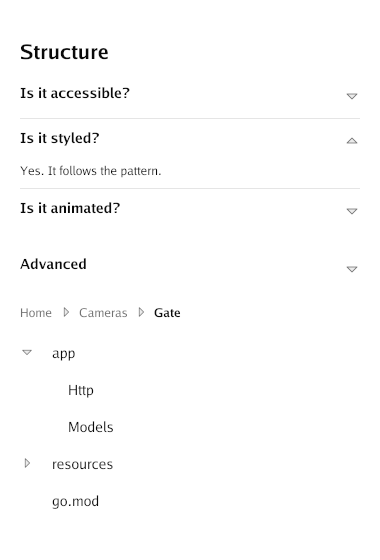
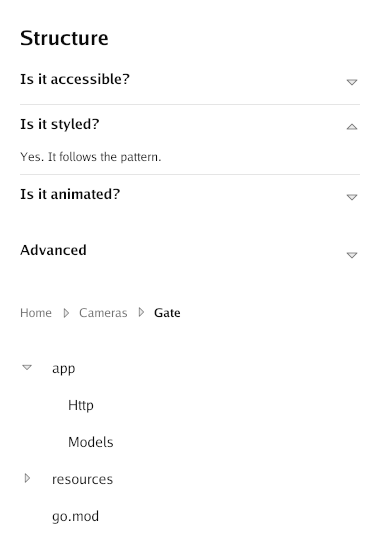
Breadcrumb: break a trail longer than the room into lines, and make each step as high as a finger
The trail was a row with no break: on a phone the third step was cut at the edge
and the fourth -- the page the person is on -- was not drawn anywhere. Kyse's
wraps. The steps are set into lines, each centred in the height of its line.
The words of a step were 17 points tall to press; the area is 44.

diff --git a/widget/navigation.go b/widget/navigation.go
@@ -5,6 +5,7 @@ import (
 
 	"github.com/arandu-io/ayra"
 	"github.com/arandu-io/ayra/engine/layout"
+	"github.com/arandu-io/ayra/engine/op"
 	"github.com/arandu-io/ayra/engine/text"
 	"github.com/arandu-io/ayra/engine/unit"
 	engine "github.com/arandu-io/ayra/engine/widget"
@@ -60,34 +61,84 @@ func (p BreadcrumbProps) layout(c ayra.Context, state *Crumbs) ayra.Dimensions {
 		state.clicks = append(state.clicks, engine.Clickable{})
 	}
 
-	children := make([]layout.FlexChild, 0, len(p.Steps)*2)
+	// Each step is recorded with the caret before it, and the row is broken
+	// where the next does not fit: a trail longer than a phone was cut at its
+	// edge, and the page the person is on was the part cut off. Kyse's wraps.
+	type piece struct {
+		draw op.CallOp
+		size image.Point
+	}
+	pieces := make([]piece, 0, len(p.Steps))
+	least := c.Dp(touchTarget)
 	for index, step := range p.Steps {
 		index, step := index, step
-		if index > 0 {
-			children = append(children, layout.Rigid(func(gtx layout.Context) layout.Dimensions {
-				inner := c.With(gtx)
-				inner.Constraints.Min = image.Point{}
+		recording := op.Record(c.Ops)
+		inner := c
+		inner.Constraints.Min = image.Point{}
+		dims := layout.Flex{Axis: layout.Horizontal, Alignment: layout.Middle}.Layout(inner.Context,
+			layout.Rigid(func(gtx layout.Context) layout.Dimensions {
+				if index == 0 {
+					return layout.Dimensions{}
+				}
 				return layout.Inset{Left: 6, Right: 6}.Layout(gtx, func(gtx layout.Context) layout.Dimensions {
 					return drawInner(c.With(gtx), innerIcon("breadcrumb", "CaretRight"), innerPixels(c, innerSideSmall), c.Theme.Colours.MutedForeground, 0)
 				})
-			}))
-		}
-
-		last := index == len(p.Steps)-1
-		children = append(children, layout.Rigid(func(gtx layout.Context) layout.Dimensions {
-			inner := c.With(gtx)
-			inner.Constraints.Min = image.Point{}
-
-			if last {
-				return drawText(inner, step, unit.Sp(c.Theme.Type.Small), c.Theme.Colours.Foreground, 1, text.Start, semibold())
-			}
-			return state.clicks[index].Layout(inner.Context, func(gtx layout.Context) layout.Dimensions {
-				return drawText(c.With(gtx), step, unit.Sp(c.Theme.Type.Small), c.Theme.Colours.MutedForeground, 1, text.Start, plain())
-			})
-		}))
+			}),
+			layout.Rigid(func(gtx layout.Context) layout.Dimensions {
+				gtx.Constraints.Min = image.Point{}
+				in := c.With(gtx)
+				if index == len(p.Steps)-1 {
+					return drawText(in, step, unit.Sp(c.Theme.Type.Small), c.Theme.Colours.Foreground, 0, text.Start, semibold())
+				}
+				// The press area is as high as a finger, and the words are in
+				// the middle of it.
+				return state.clicks[index].Layout(in.Context, func(gtx layout.Context) layout.Dimensions {
+					gtx.Constraints.Min.Y = least
+					return layout.Flex{Axis: layout.Horizontal, Alignment: layout.Middle}.Layout(gtx,
+						layout.Rigid(func(gtx layout.Context) layout.Dimensions {
+							gtx.Constraints.Min = image.Point{}
+							return drawText(c.With(gtx), step, unit.Sp(c.Theme.Type.Small), c.Theme.Colours.MutedForeground, 0, text.Start, plain())
+						}),
+					)
+				})
+			}),
+		)
+		pieces = append(pieces, piece{draw: recording.Stop(), size: dims.Size})
 	}
 
-	return layout.Flex{Axis: layout.Horizontal, Alignment: layout.Middle}.Layout(c.Context, children...)
+	// The pieces are set into lines first, so that each can be centred in the
+	// height of its line: a step as high as a finger beside one that is not.
+	type placed struct {
+		piece
+		x int
+	}
+	var lines [][]placed
+	var heights []int
+	var x, lineHeight, widest int
+	room := c.Constraints.Max.X
+	line := []placed(nil)
+	for _, piece := range pieces {
+		if x > 0 && x+piece.size.X > room {
+			lines, heights = append(lines, line), append(heights, lineHeight)
+			line, x, lineHeight = nil, 0, 0
+		}
+		line = append(line, placed{piece: piece, x: x})
+		x += piece.size.X
+		widest = max(widest, x)
+		lineHeight = max(lineHeight, piece.size.Y)
+	}
+	lines, heights = append(lines, line), append(heights, lineHeight)
+
+	y := 0
+	for index, line := range lines {
+		for _, item := range line {
+			at := op.Offset(image.Pt(item.x, y+(heights[index]-item.size.Y)/2)).Push(c.Ops)
+			item.draw.Add(c.Ops)
+			at.Pop()
+		}
+		y += heights[index]
+	}
+	return ayra.Dimensions{Size: image.Pt(widest, y)}
 }
 
 // LinkProps is text that goes somewhere.

diff --git a/frame/overlay_phone_golden_test.go b/frame/overlay_phone_golden_test.go
@@ -27,6 +27,7 @@ func TestTheOverlaysFitAPhone(t *testing.T) {
 		{screen: screen{name: "menu-capped-phone", width: 390, height: 400, draw: menuLongerThanTheRoom}},
 		{screen: screen{name: "disclosure-phone", width: 390, height: 400, draw: disclosurePhone}},
 		{screen: screen{name: "carousel-phone", width: 390, height: 260, draw: carouselPhone}},
+		{screen: screen{name: "navigation-phone", width: 390, height: 360, draw: navigationPhone}},
 		{screen: screen{name: "menu-phone", width: 390, height: 300, draw: menuRowScreen}},
 		{screen: screen{name: "popover-phone", width: 390, height: 260, draw: popoverRowScreen}},
 	} {
@@ -338,6 +339,31 @@ func carouselPhone() ayra.Widget {
 				Layout(c.With(gtx), &one, func(c ayra.Context, i int) ayra.Dimensions {
 					return line("Portão principal, leituras ao vivo", widget.Heading, true)(c)
 				})
+		})
+	}
+}
+
+// navigationPhone is a trail longer than a phone over a sidebar whose current
+// entry is marked.
+func navigationPhone() ayra.Widget {
+	var crumbs widget.Crumbs
+	var sidebar widget.Sidebar
+	sidebar.Show(2)
+	return func(c ayra.Context) ayra.Dimensions {
+		return layout.Inset{Top: 16, Left: 16, Right: 16}.Layout(c.Context, func(gtx layout.Context) layout.Dimensions {
+			gtx.Constraints.Min = image.Point{}
+			inner := c.With(gtx)
+			return layout.Flex{Axis: layout.Vertical}.Layout(gtx,
+				layout.Rigid(func(gtx layout.Context) layout.Dimensions {
+					return widget.BreadcrumbProps{Steps: []string{"Organização Condomínio Jardins", "Câmeras do portão principal", "Configurações avançadas", "Leituras"}}.
+						Layout(inner.With(gtx), &crumbs)
+				}),
+				layout.Rigid(layout.Spacer{Height: 12}.Layout),
+				layout.Rigid(func(gtx layout.Context) layout.Dimensions {
+					return widget.SidebarProps{Title: "Espaço de trabalho", Entries: []string{"Visão geral", "Câmeras", "Leituras do dia de hoje", "Configurações da organização e integrações"}, Width: 358}.
+						Layout(inner.With(gtx), &sidebar)
+				}),
+			)
 		})
 	}
 }

diff --git a/widget/navigation_phone_test.go b/widget/navigation_phone_test.go
@@ -1,0 +1,39 @@
+package widget_test
+
+import (
+	"testing"
+
+	"github.com/arandu-io/ayra"
+	"github.com/arandu-io/ayra/widget"
+)
+
+// TestATrailLongerThanAPhoneWrapsAndKeepsThePageItIsOn: the row was cut at the
+// edge of the window, and the last step -- the page the person is on -- was the
+// part that was cut off.
+func TestATrailLongerThanAPhoneWrapsAndKeepsThePageItIsOn(t *testing.T) {
+	p := phone(300)
+	var crumbs widget.Crumbs
+	steps := []string{"Organização Condomínio Jardins", "Câmeras do portão principal", "Configurações avançadas", "Leituras"}
+
+	dims := p.draw(func(c ayra.Context) ayra.Dimensions {
+		return widget.BreadcrumbProps{Steps: steps}.Layout(c, &crumbs)
+	})
+	if dims.Size.X > 390 {
+		t.Errorf("the trail is %d points wide in a window of 390", dims.Size.X)
+	}
+	if dims.Size.Y < 2*44 {
+		t.Errorf("the trail is %d points high: it did not break into lines, so the last steps are off the screen", dims.Size.Y)
+	}
+}
+
+// TestAStepOfATrailIsAsHighAsAFinger: the words are 17 points tall.
+func TestAStepOfATrailIsAsHighAsAFinger(t *testing.T) {
+	p := phone(300)
+	var crumbs widget.Crumbs
+	dims := p.draw(func(c ayra.Context) ayra.Dimensions {
+		return widget.BreadcrumbProps{Steps: []string{"Câmeras", "Leituras"}}.Layout(c, &crumbs)
+	})
+	if dims.Size.Y < 44 {
+		t.Errorf("a short trail is %d points high, want at least 44", dims.Size.Y)
+	}
+}
